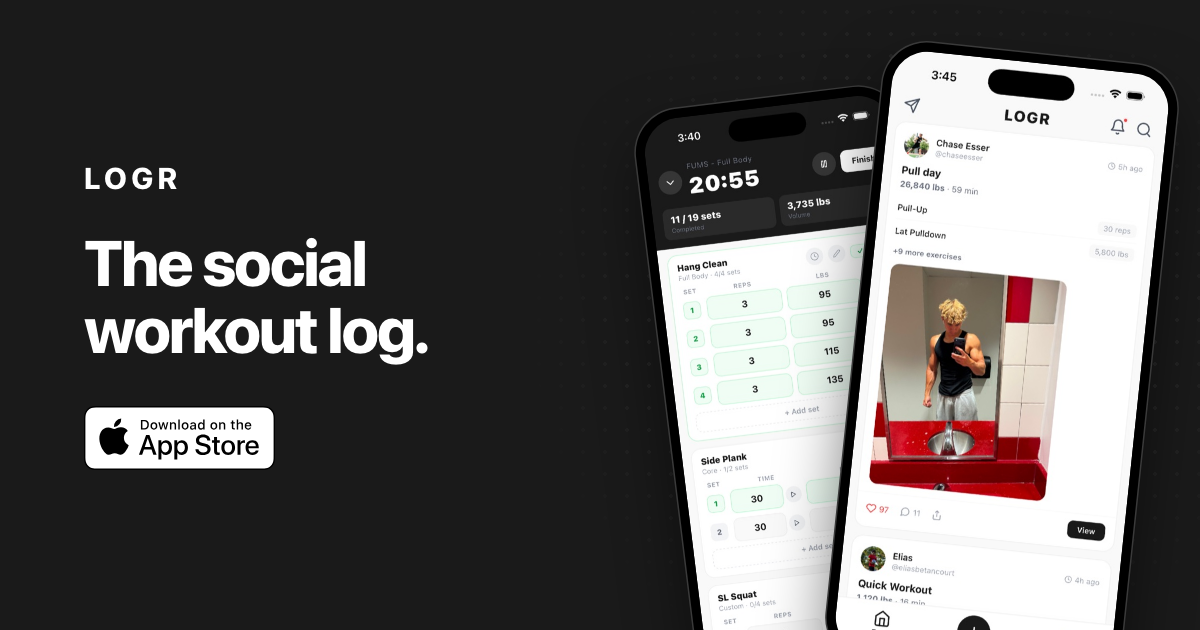
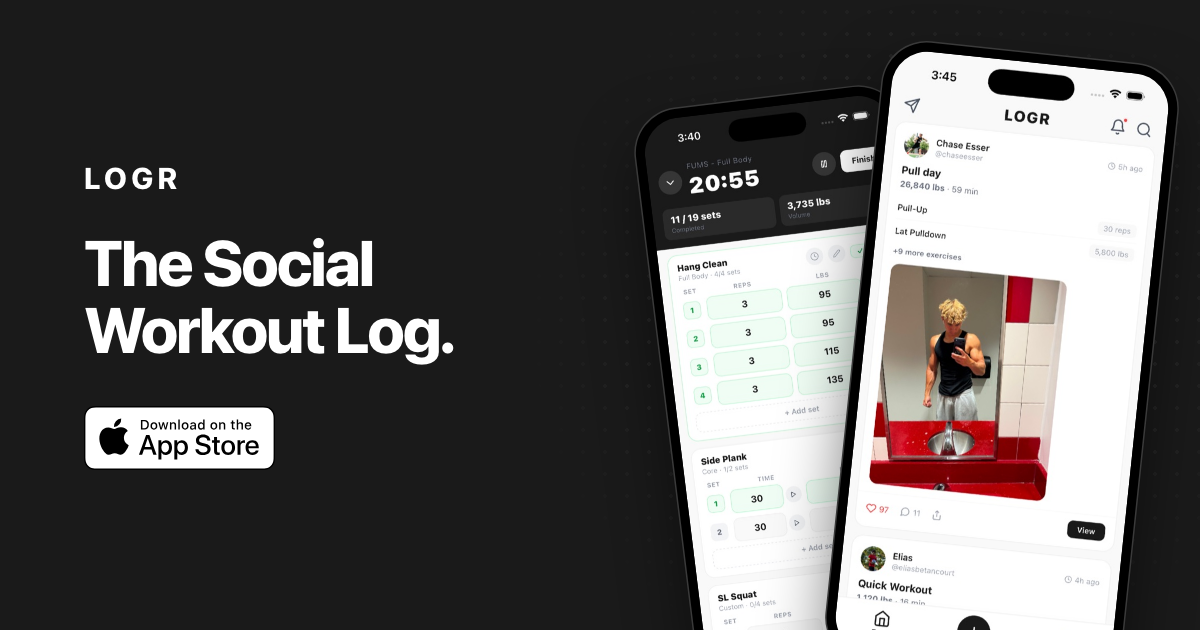
The Social Workout Log, capitalized (Elias's call)

Changed region(s): [[0.0617, 0.4825, 0.4008, 0.6032], [0.1542, 0.3619, 0.3083, 0.4524]]

diff --git a/index.html b/index.html
@@ -24,7 +24,7 @@
   <meta property="og:image" content="https://getlogr.com/og.png">
   <meta property="og:image:width" content="1200">
   <meta property="og:image:height" content="630">
-  <meta property="og:image:alt" content="LOGR. The social workout log.">
+  <meta property="og:image:alt" content="LOGR. The Social Workout Log.">
   <meta name="twitter:card" content="summary_large_image">
   <meta name="theme-color" content="#f9f9f9">
   <!-- Safari's Smart App Banner, the same one the pages behind shared links
@@ -161,7 +161,7 @@
     <!-- ── Hero ──────────────────────────────────────────────────────── -->
     <section class="hero" id="top">
       <div class="hero-copy">
-        <h1>The social workout log.</h1>
+        <h1>The Social Workout Log.</h1>
         <p>LOGR is a free workout log for iPhone. Log your lifts at the gym, post
           them, and see what your friends and teammates did today, with a new
           leaderboard every month.</p>

diff --git a/netlify/edge-functions/app-link.js b/netlify/edge-functions/app-link.js
@@ -66,7 +66,7 @@ const CARD_TIMEOUT_MS = 2500;
 // link preview"). An expired invite gets the site's own, since its card would
 // say "You're invited" over a title that says the invite has expired.
 const PREVIEWS = {
-  site: { image: 'og.png', alt: 'LOGR. The social workout log.' },
+  site: { image: 'og.png', alt: 'LOGR. The Social Workout Log.' },
   post: { image: 'og/post.png', alt: 'LOGR. See the whole session.' },
   routine: { image: 'og/routine.png', alt: 'LOGR. Save it, start it, log it.' },
   profile: { image: 'og/profile.png', alt: 'LOGR. Follow their training.' },

diff --git a/coaches.html b/coaches.html
@@ -20,7 +20,7 @@
   <meta property="og:image" content="https://getlogr.com/og.png">
   <meta property="og:image:width" content="1200">
   <meta property="og:image:height" content="630">
-  <meta property="og:image:alt" content="LOGR. The social workout log.">
+  <meta property="og:image:alt" content="LOGR. The Social Workout Log.">
   <meta name="twitter:card" content="summary_large_image">
   <meta name="theme-color" content="#f9f9f9">
   <!-- Smart App Banner, as on the home page, with this page's own campaign

diff --git a/college.html b/college.html
@@ -20,7 +20,7 @@
   <meta property="og:image" content="https://getlogr.com/og.png">
   <meta property="og:image:width" content="1200">
   <meta property="og:image:height" content="630">
-  <meta property="og:image:alt" content="LOGR. The social workout log.">
+  <meta property="og:image:alt" content="LOGR. The Social Workout Log.">
   <meta name="twitter:card" content="summary_large_image">
   <meta name="theme-color" content="#f9f9f9">
   <!-- Smart App Banner, as on the home page, with this page's own campaign

diff --git a/friends.html b/friends.html
@@ -20,7 +20,7 @@
   <meta property="og:image" content="https://getlogr.com/og.png">
   <meta property="og:image:width" content="1200">
   <meta property="og:image:height" content="630">
-  <meta property="og:image:alt" content="LOGR. The social workout log.">
+  <meta property="og:image:alt" content="LOGR. The Social Workout Log.">
   <meta name="twitter:card" content="summary_large_image">
   <meta name="theme-color" content="#f9f9f9">
   <!-- Smart App Banner, as on the home page, with this page's own campaign

diff --git a/teams.html b/teams.html
@@ -20,7 +20,7 @@
   <meta property="og:image" content="https://getlogr.com/og.png">
   <meta property="og:image:width" content="1200">
   <meta property="og:image:height" content="630">
-  <meta property="og:image:alt" content="LOGR. The social workout log.">
+  <meta property="og:image:alt" content="LOGR. The Social Workout Log.">
   <meta name="twitter:card" content="summary_large_image">
   <meta name="theme-color" content="#f9f9f9">
   <!-- Smart App Banner, as on the home page, with this page's own campaign

diff --git a/compare/hevy-alternatives.html b/compare/hevy-alternatives.html
@@ -20,7 +20,7 @@
   <meta property="og:image" content="https://getlogr.com/og.png">
   <meta property="og:image:width" content="1200">
   <meta property="og:image:height" content="630">
-  <meta property="og:image:alt" content="LOGR. The social workout log.">
+  <meta property="og:image:alt" content="LOGR. The Social Workout Log.">
   <meta name="twitter:card" content="summary_large_image">
   <meta name="theme-color" content="#f9f9f9">
   <!-- Smart App Banner. The three comparison pages share one campaign

diff --git a/compare/hevy.html b/compare/hevy.html
@@ -20,7 +20,7 @@
   <meta property="og:image" content="https://getlogr.com/og.png">
   <meta property="og:image:width" content="1200">
   <meta property="og:image:height" content="630">
-  <meta property="og:image:alt" content="LOGR. The social workout log.">
+  <meta property="og:image:alt" content="LOGR. The Social Workout Log.">
   <meta name="twitter:card" content="summary_large_image">
   <meta name="theme-color" content="#f9f9f9">
   <!-- Smart App Banner. The three comparison pages share one campaign

diff --git a/compare/strava-for-lifting.html b/compare/strava-for-lifting.html
@@ -20,7 +20,7 @@
   <meta property="og:image" content="https://getlogr.com/og.png">
   <meta property="og:image:width" content="1200">
   <meta property="og:image:height" content="630">
-  <meta property="og:image:alt" content="LOGR. The social workout log.">
+  <meta property="og:image:alt" content="LOGR. The Social Workout Log.">
   <meta name="twitter:card" content="summary_large_image">
   <meta name="theme-color" content="#f9f9f9">
   <!-- Smart App Banner. The three comparison pages share one campaign

diff --git a/404.html b/404.html
@@ -15,7 +15,7 @@
 <meta property="og:image" content="https://getlogr.com/og.png">
 <meta property="og:image:width" content="1200">
 <meta property="og:image:height" content="630">
-<meta property="og:image:alt" content="LOGR. The social workout log.">
+<meta property="og:image:alt" content="LOGR. The Social Workout Log.">
 <meta name="twitter:card" content="summary_large_image">
 <meta name="theme-color" content="#f9f9f9">
 <link rel="stylesheet" href="/style.css">

diff --git a/account-deletion.html b/account-deletion.html
@@ -17,7 +17,7 @@
 <meta property="og:image" content="https://getlogr.com/og.png">
 <meta property="og:image:width" content="1200">
 <meta property="og:image:height" content="630">
-<meta property="og:image:alt" content="LOGR. The social workout log.">
+<meta property="og:image:alt" content="LOGR. The Social Workout Log.">
 <meta name="twitter:card" content="summary_large_image">
 <meta name="theme-color" content="#f9f9f9">
 <link rel="stylesheet" href="/style.css">

diff --git a/community-guidelines.html b/community-guidelines.html
@@ -17,7 +17,7 @@
 <meta property="og:image" content="https://getlogr.com/og.png">
 <meta property="og:image:width" content="1200">
 <meta property="og:image:height" content="630">
-<meta property="og:image:alt" content="LOGR. The social workout log.">
+<meta property="og:image:alt" content="LOGR. The Social Workout Log.">
 <meta name="twitter:card" content="summary_large_image">
 <meta name="theme-color" content="#f9f9f9">
 <link rel="stylesheet" href="/style.css">
